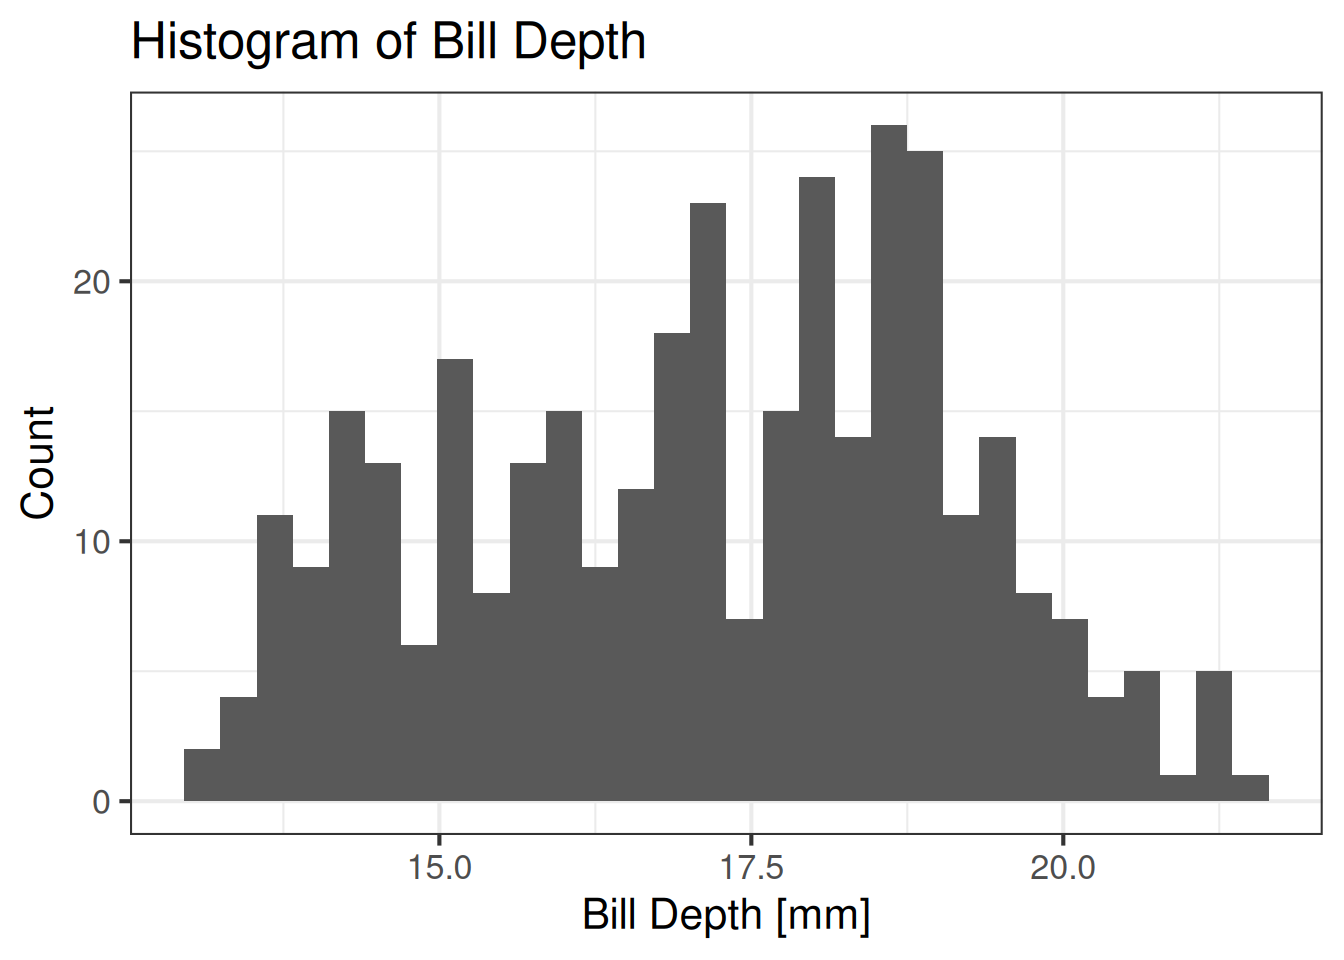
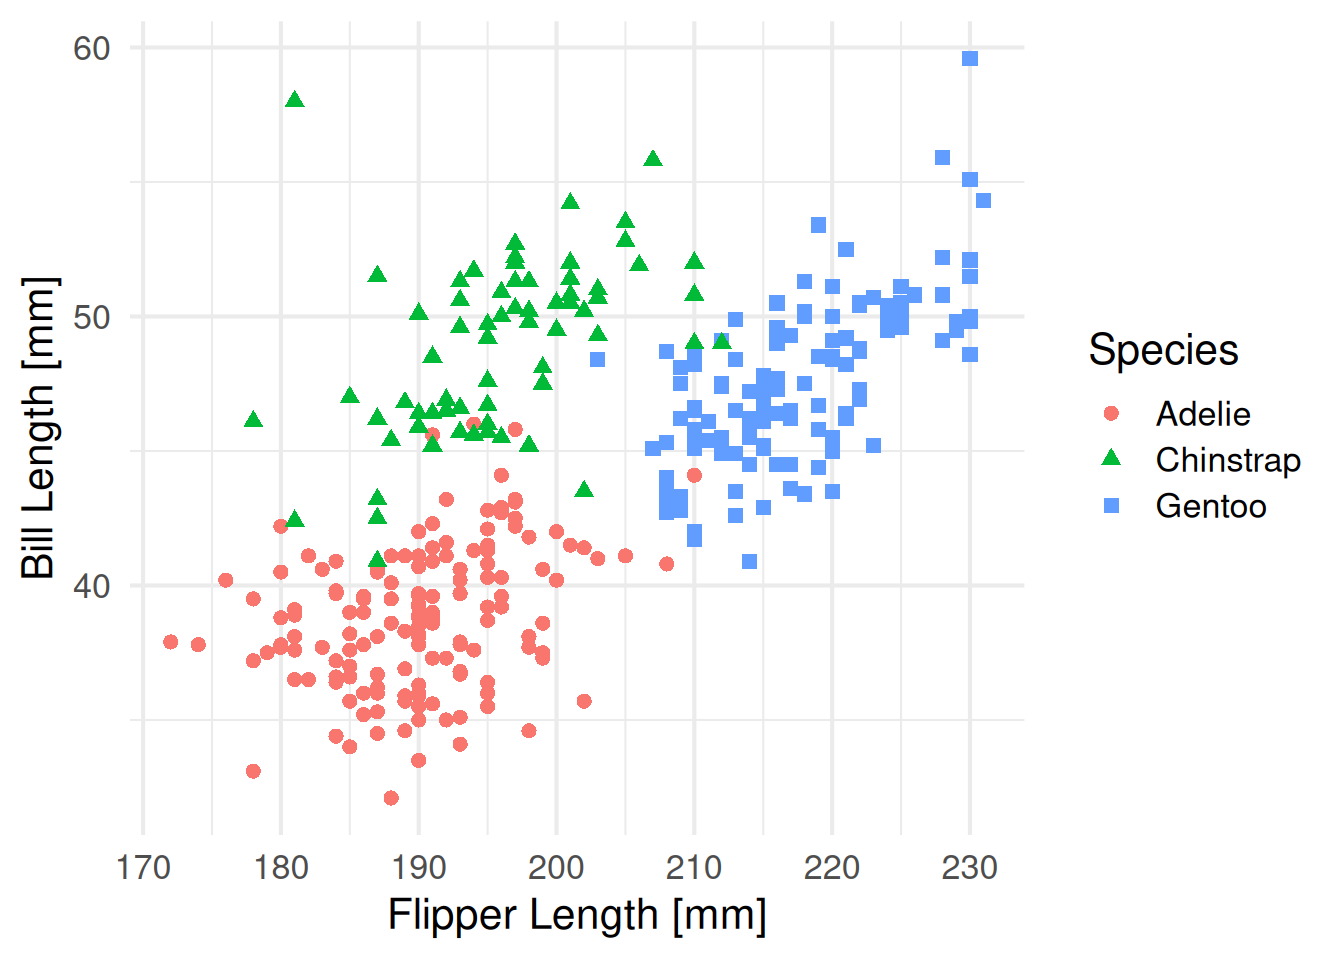
penguins 2

diff --git a/docs/posts/penguin2/penguins.html b/docs/posts/penguin2/penguins.html
@@ -1576,18 +1576,48 @@ $ year        &lt;int&gt; 2007, 2007, 2007, 2007, 2007, 2007, 2007, 2007, 2007, 
 </div>
 </div>
 </div>
-<p>Son olarak da basit bir histogram çizip, verimizin dağılımına bakalım.</p>
 <div class="cell">
-<div class="sourceCode cell-code" id="cb105"><pre class="sourceCode r code-with-copy"><code class="sourceCode r"><span id="cb105-1"><a href="#cb105-1" aria-hidden="true" tabindex="-1"></a><span class="fu">ggplot</span>(<span class="at">data=</span>penguins, <span class="fu">aes</span>(bill_dep)) <span class="sc">+</span> </span>
-<span id="cb105-2"><a href="#cb105-2" aria-hidden="true" tabindex="-1"></a>    <span class="fu">geom_histogram</span>() <span class="sc">+</span></span>
-<span id="cb105-3"><a href="#cb105-3" aria-hidden="true" tabindex="-1"></a>    <span class="fu">labs</span>(<span class="at">x=</span><span class="st">"Bill Depth [mm]"</span>, </span>
-<span id="cb105-4"><a href="#cb105-4" aria-hidden="true" tabindex="-1"></a>         <span class="at">y=</span><span class="st">"Count"</span>,</span>
-<span id="cb105-5"><a href="#cb105-5" aria-hidden="true" tabindex="-1"></a>         <span class="at">title=</span><span class="st">"Histogram of Bill Depth"</span>) <span class="sc">+</span></span>
-<span id="cb105-6"><a href="#cb105-6" aria-hidden="true" tabindex="-1"></a>    <span class="fu">theme_bw</span>(<span class="at">base_size=</span><span class="dv">16</span>)</span></code><button title="Panoya Kopyala" class="code-copy-button"><i class="bi"></i></button></pre></div>
+<div class="sourceCode cell-code" id="cb105"><pre class="sourceCode r code-with-copy"><code class="sourceCode r"><span id="cb105-1"><a href="#cb105-1" aria-hidden="true" tabindex="-1"></a><span class="fu">ggplot</span>(<span class="at">data=</span>penguins, <span class="fu">aes</span>(<span class="at">x=</span>flipper_len, <span class="at">y=</span>bill_len, <span class="at">colour=</span>species, </span>
+<span id="cb105-2"><a href="#cb105-2" aria-hidden="true" tabindex="-1"></a>                          <span class="at">shape=</span>species)) <span class="sc">+</span></span>
+<span id="cb105-3"><a href="#cb105-3" aria-hidden="true" tabindex="-1"></a>    <span class="fu">geom_point</span>() <span class="sc">+</span></span>
+<span id="cb105-4"><a href="#cb105-4" aria-hidden="true" tabindex="-1"></a>    <span class="fu">labs</span>(<span class="at">x=</span><span class="st">"Flipper Length [mm]"</span>, <span class="at">y=</span><span class="st">"Bill Length [mm]"</span>, <span class="at">colour=</span><span class="st">"Species"</span>,</span>
+<span id="cb105-5"><a href="#cb105-5" aria-hidden="true" tabindex="-1"></a>         <span class="at">shape=</span><span class="st">"Species"</span>) <span class="sc">+</span></span>
+<span id="cb105-6"><a href="#cb105-6" aria-hidden="true" tabindex="-1"></a>    <span class="fu">theme_minimal</span>(<span class="at">base_size=</span><span class="dv">16</span>)</span></code><button title="Panoya Kopyala" class="code-copy-button"><i class="bi"></i></button></pre></div>
 <div class="cell-output-display">
 <div>
 <figure class="figure">
 <p><img src="penguins_files/figure-html/unnamed-chunk-57-1.png" class="img-fluid figure-img" width="672"></p>
+</figure>
+</div>
+</div>
+</div>
+<div class="cell">
+<div class="sourceCode cell-code" id="cb106"><pre class="sourceCode r code-with-copy"><code class="sourceCode r"><span id="cb106-1"><a href="#cb106-1" aria-hidden="true" tabindex="-1"></a><span class="fu">ggplot</span>(<span class="at">data=</span>penguins, <span class="fu">aes</span>(<span class="at">x=</span>flipper_len, <span class="at">y=</span>bill_len, <span class="at">colour=</span>species, </span>
+<span id="cb106-2"><a href="#cb106-2" aria-hidden="true" tabindex="-1"></a>                          <span class="at">shape=</span>species)) <span class="sc">+</span></span>
+<span id="cb106-3"><a href="#cb106-3" aria-hidden="true" tabindex="-1"></a>    <span class="fu">geom_point</span>() <span class="sc">+</span></span>
+<span id="cb106-4"><a href="#cb106-4" aria-hidden="true" tabindex="-1"></a>    <span class="fu">labs</span>(<span class="at">x=</span><span class="st">"Flipper Length [mm]"</span>, <span class="at">y=</span><span class="st">"Bill Length [mm]"</span>, <span class="at">colour=</span><span class="st">"Species"</span>,</span>
+<span id="cb106-5"><a href="#cb106-5" aria-hidden="true" tabindex="-1"></a>         <span class="at">shape=</span><span class="st">"Species"</span>) <span class="sc">+</span></span>
+<span id="cb106-6"><a href="#cb106-6" aria-hidden="true" tabindex="-1"></a>    <span class="fu">theme_classic</span>(<span class="at">base_size=</span><span class="dv">16</span>)</span></code><button title="Panoya Kopyala" class="code-copy-button"><i class="bi"></i></button></pre></div>
+<div class="cell-output-display">
+<div>
+<figure class="figure">
+<p><img src="penguins_files/figure-html/unnamed-chunk-58-1.png" class="img-fluid figure-img" width="672"></p>
+</figure>
+</div>
+</div>
+</div>
+<p>Son olarak da basit bir histogram çizip, verimizin dağılımına bakalım.</p>
+<div class="cell">
+<div class="sourceCode cell-code" id="cb107"><pre class="sourceCode r code-with-copy"><code class="sourceCode r"><span id="cb107-1"><a href="#cb107-1" aria-hidden="true" tabindex="-1"></a><span class="fu">ggplot</span>(<span class="at">data=</span>penguins, <span class="fu">aes</span>(bill_dep)) <span class="sc">+</span> </span>
+<span id="cb107-2"><a href="#cb107-2" aria-hidden="true" tabindex="-1"></a>    <span class="fu">geom_histogram</span>() <span class="sc">+</span></span>
+<span id="cb107-3"><a href="#cb107-3" aria-hidden="true" tabindex="-1"></a>    <span class="fu">labs</span>(<span class="at">x=</span><span class="st">"Bill Depth [mm]"</span>, </span>
+<span id="cb107-4"><a href="#cb107-4" aria-hidden="true" tabindex="-1"></a>         <span class="at">y=</span><span class="st">"Count"</span>,</span>
+<span id="cb107-5"><a href="#cb107-5" aria-hidden="true" tabindex="-1"></a>         <span class="at">title=</span><span class="st">"Histogram of Bill Depth"</span>) <span class="sc">+</span></span>
+<span id="cb107-6"><a href="#cb107-6" aria-hidden="true" tabindex="-1"></a>    <span class="fu">theme_bw</span>(<span class="at">base_size=</span><span class="dv">16</span>)</span></code><button title="Panoya Kopyala" class="code-copy-button"><i class="bi"></i></button></pre></div>
+<div class="cell-output-display">
+<div>
+<figure class="figure">
+<p><img src="penguins_files/figure-html/unnamed-chunk-59-1.png" class="img-fluid figure-img" width="672"></p>
 </figure>
 </div>
 </div>

diff --git a/docs/index.html b/docs/index.html
@@ -372,7 +372,7 @@ window.Quarto = {
 
 <div class="quarto-listing quarto-listing-container-default" id="listing-listing">
 <div class="list quarto-listing-default">
-<div class="quarto-post image-right" data-index="0" data-categories="UiUyQ2RwbHlyJTJDdGlkeXZlcnNlJTJDcGFsbWVycGVuZ3VpbnM=" data-listing-date-sort="1780261200000" data-listing-file-modified-sort="1780320561525" data-listing-date-modified-sort="NaN" data-listing-reading-time-sort="15" data-listing-word-count-sort="2836">
+<div class="quarto-post image-right" data-index="0" data-categories="UiUyQ2RwbHlyJTJDdGlkeXZlcnNlJTJDcGFsbWVycGVuZ3VpbnM=" data-listing-date-sort="1780261200000" data-listing-file-modified-sort="1780321584855" data-listing-date-modified-sort="NaN" data-listing-reading-time-sort="15" data-listing-word-count-sort="2960">
 <div class="thumbnail"><a href="./posts/penguin2/penguins.html" class="no-external">
 
 <p class="card-img-top"><img src="posts/penguin2/figs/penguins.webp"  class="thumbnail-image card-img"/></p>